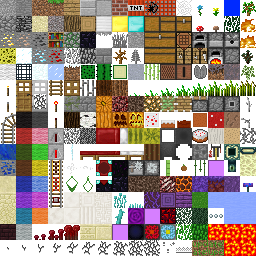
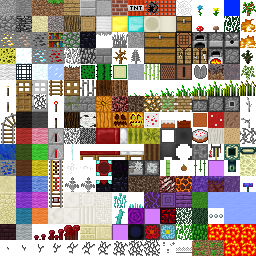
nether/rendering fixes

Changed region(s): [[0.5625, 0.0625, 0.6875, 0.125], [0.25, 0.6875, 0.375, 0.75]]

diff --git a/src/world/level/levelgen/nether_gen.cpp b/src/world/level/levelgen/nether_gen.cpp
@@ -461,6 +461,161 @@ static bool isNetherrackFace(World* w, int x, int y, int z) {
     return worldBlock(w, x, y, z) == BLOCK_NETHERRACK;
 }
 
+// --- Wastes structure: netherrack spire -----------------------------
+//
+// A thin rock column jutting up from the floor, tapering slightly near
+// the top and optionally capped with magma or glowstone. This is purely
+// ambient decoration for the otherwise-empty Nether Wastes biome -- no
+// footprint validation or chunk-rejection the way the fortress/dungeon
+// generators need, since a spire that fails its headroom check simply
+// isn't placed and the biome falls back to its existing flat terrain,
+// which was already the status quo.
+//
+// Height is capped conservatively (5-8 blocks) against NETHER_MIN_GAP
+// (10): even the tallest possible spire leaves at least 2 blocks of
+// clearance below the lowest the ceiling can ever sit relative to a
+// floor column directly below it, so there's no need to re-derive the
+// ceiling height here -- the local headroom scan below is the real
+// authority and the height cap is just a sane upper bound to roll from.
+static void placeNetherrackSpire(World* w, Random& random, int x, int y, int z) {
+    if (worldBlock(w, x, y, z) != BLOCK_NETHERRACK) return;
+    if (worldBlock(w, x, y + 1, z) != BLOCK_AIR) return;
+
+    int wantHeight = 5 + random.nextInt(4);
+    int headroom = 0;
+    while (headroom < wantHeight && worldBlock(w, x, y + 1 + headroom, z) == BLOCK_AIR) headroom++;
+    int height = headroom < wantHeight ? headroom : wantHeight;
+    if (height < 3) return; // too little clearance to read as a spire; skip rather than stub
+
+    for (int h = 1; h <= height; h++) {
+        // Tapers near the top: the last two blocks have a chance to skip,
+        // giving an irregular jagged silhouette instead of a perfect rod.
+        if (h > height - 2 && random.nextInt(3) == 0) continue;
+        blockPut(w, x, y + h, z, BLOCK_NETHERRACK);
+    }
+
+    // Occasional accent cap -- magma reads as a scorched tip, glowstone
+    // as a light source that also helps the spire read from a distance.
+    // Never both; capChance keeps most spires plain rock, matching how
+    // sparse the existing magma-blob decoration already is in this biome.
+    int capRoll = random.nextInt(6);
+    if (capRoll == 0) blockPut(w, x, y + height + 1, z, BLOCK_MAGMA);
+    else if (capRoll == 1) blockPut(w, x, y + height + 1, z, BLOCK_GLOWSTONE);
+}
+
+// --- Wastes structure: small obsidian formation -----------------------
+//
+// A squat, irregular blob of obsidian sitting on the floor -- reads as a
+// natural rock outcrop, distinct from the thin vertical spires above.
+// Obsidian only forms where lava meets a stable surface in vanilla; this
+// is a decorative stand-in for that without simulating the actual fluid
+// interaction, matching how the existing magma blobs in this file are
+// already "purely decorative...no lava-damage/bubble-column behavior".
+static void placeObsidianFormation(World* w, Random& random, int x, int y, int z) {
+    if (worldBlock(w, x, y, z) != BLOCK_NETHERRACK) return;
+    if (worldBlock(w, x, y + 1, z) != BLOCK_AIR) return;
+
+    int radius = 1 + random.nextInt(2);
+    int height = 1 + random.nextInt(2);
+    for (int dx = -radius; dx <= radius; dx++) {
+        for (int dz = -radius; dz <= radius; dz++) {
+            if (dx * dx + dz * dz > radius * radius) continue; // round footprint, not square
+            for (int dy = 0; dy < height; dy++) {
+                int bx = x + dx, by = y + 1 + dy, bz = z + dz;
+                if (worldBlock(w, bx, by, bz) != BLOCK_AIR) continue;
+                // Only builds on solid ground directly below -- an
+                // obsidian blob floating a block above an already-placed
+                // neighbour column would look like debris, not an
+                // outcrop, so each column is checked independently.
+                if (worldBlock(w, bx, by - 1, bz) == BLOCK_AIR) continue;
+                blockPut(w, bx, by, bz, BLOCK_OBSIDIAN);
+            }
+        }
+    }
+}
+
+// --- Soul Sand Valley structure: fossil skeleton -----------------------
+//
+// A buried skeleton -- a spine with rib pairs, echoing vanilla's own
+// fossil structures -- rather than a random scatter of bone blocks. Fixed
+// orientation with an optional mirror across Z (cheap variety without a
+// full rotation matrix, matching how little investment the fortress and
+// dungeon generators put into orientation too). The rib layout is
+// deliberately asymmetric (one pair shortened on one side, another
+// dropped on one side entirely) so the mirror actually produces a
+// different-looking skeleton rather than mapping onto itself -- a fully
+// symmetric rib layout was tried first and rejected because mirroring it
+// is a no-op, confirmed by generating both orientations as coordinate
+// sets and checking they differ. The template is a flat coordinate list
+// rather than ported vanilla structure data, hand-authored to read as a
+// spine + ribcage from directly above -- see the ASCII check this shape
+// was verified against before being written out here:
+//
+//   NORMAL:            MIRRORED:
+//    # #     #          #    #  #
+//    # #     #          # #  #  #
+//    ###########         ###########
+//    # #  #  #          # #     #
+//    #    #  #          # #     #
+//
+// 11 long (x), 5 wide (z), 3 tall (y) -- comparable footprint to vanilla's
+// real fossils. y within the template is a shallow arc (0->2->0) so the
+// spine reads as gently curved rather than a dead-straight line of blocks.
+struct FossilBlock { signed char dx, dy, dz; };
+static const FossilBlock kFossilTemplate[] = {
+    // Spine (11 vertebrae, shallow arc).
+    {0,0,0}, {1,0,0}, {2,1,0}, {3,1,0}, {4,1,0}, {5,2,0}, {6,2,0},
+    {7,1,0}, {8,1,0}, {9,0,0}, {10,0,0},
+    // Rib pairs, at the same height as the spine vertebra directly below
+    // them. Deliberately asymmetric -- see the comment above.
+    {1,0,1}, {1,0,2}, {1,0,-1}, {1,0,-2},   // symmetric pair
+    {3,1,1},                                 // +Z side shortened to 1 block
+    {3,1,-1}, {3,1,-2},
+    {6,2,1}, {6,2,2},                        // -Z side dropped entirely
+    {9,0,1}, {9,0,2}, {9,0,-1}, {9,0,-2},   // symmetric pair
+};
+static const int kFossilBlockCount = (int)(sizeof(kFossilTemplate) / sizeof(kFossilTemplate[0]));
+
+// True if every template cell either lands on soul sand/soil (the anchor
+// column and every other column the skeleton would occupy) with open air
+// immediately above, or -- since the whole thing is meant to sit half
+// buried -- one block INTO existing soul sand/soil is also acceptable,
+// which the placement loop below relies on to let ribs dip half a block
+// under the surface. Checked as a dry run before anything is placed, same
+// footprint-first discipline as the dungeon/fortress generators use,
+// rather than discovering a bad site block-by-block mid-placement.
+static bool fossilSiteClear(World* w, int x, int y, int z, bool mirrorZ) {
+    for (int i = 0; i < kFossilBlockCount; i++) {
+        int dz = mirrorZ ? -kFossilTemplate[i].dz : kFossilTemplate[i].dz;
+        int bx = x + kFossilTemplate[i].dx;
+        int by = y + kFossilTemplate[i].dy;
+        int bz = z + dz;
+        unsigned char at    = worldBlock(w, bx, by, bz);
+        unsigned char below = worldBlock(w, bx, by - 1, bz);
+        bool atOk    = (at == BLOCK_AIR || at == BLOCK_SOUL_SAND || at == BLOCK_SOUL_SOIL);
+        bool belowOk = (below == BLOCK_SOUL_SAND || below == BLOCK_SOUL_SOIL || below == BLOCK_AIR);
+        if (!atOk || !belowOk) return false;
+    }
+    return true;
+}
+
+static void placeFossilSkeleton(World* w, Random& random, int x, int y, int z) {
+    unsigned char floorId = worldBlock(w, x, y, z);
+    if (floorId != BLOCK_SOUL_SAND && floorId != BLOCK_SOUL_SOIL) return;
+    if (worldBlock(w, x, y + 1, z) != BLOCK_AIR) return;
+
+    bool mirrorZ = random.nextInt(2) == 0;
+    if (!fossilSiteClear(w, x, y, z, mirrorZ)) return;
+
+    for (int i = 0; i < kFossilBlockCount; i++) {
+        int dz = mirrorZ ? -kFossilTemplate[i].dz : kFossilTemplate[i].dz;
+        int bx = x + kFossilTemplate[i].dx;
+        int by = y + kFossilTemplate[i].dy;
+        int bz = z + dz;
+        blockPut(w, bx, by, bz, BLOCK_BONE_BLOCK);
+    }
+}
+
 static void decorateWastes(World* w, Random& random, int xo, int zo) {
     // Magma blocks scattered on floor hills near the lava sea, same
     // rough placement vanilla uses (small blobs just above the lava
@@ -487,6 +642,31 @@ static void decorateWastes(World* w, Random& random, int xo, int zo) {
                 blockPut(w, bx, y, bz, BLOCK_MAGMA);
         }
     }
+
+    // Spires and obsidian formations: the actual "give Wastes some
+    // structure" pass. One roll each per chunk, independent of the magma
+    // above -- both search for the topmost exposed floor column the same
+    // way decorateSoulSandValley already does for its floor material,
+    // since spires/formations need to sit on *any* floor surface, not
+    // specifically the narrow lava-shoreline band magma targets.
+    if (random.nextInt(3) == 0) {
+        int x = xo + random.nextInt(16), z = zo + random.nextInt(16);
+        for (int y = NETHER_CEIL_BASE_Y; y >= NETHER_SCAN_MIN_Y; y--) {
+            if (worldBlock(w, x, y, z) != BLOCK_NETHERRACK) continue;
+            if (worldBlock(w, x, y + 1, z) != BLOCK_AIR) continue;
+            placeNetherrackSpire(w, random, x, y, z);
+            break;
+        }
+    }
+    if (random.nextInt(4) == 0) {
+        int x = xo + random.nextInt(16), z = zo + random.nextInt(16);
+        for (int y = NETHER_CEIL_BASE_Y; y >= NETHER_SCAN_MIN_Y; y--) {
+            if (worldBlock(w, x, y, z) != BLOCK_NETHERRACK) continue;
+            if (worldBlock(w, x, y + 1, z) != BLOCK_AIR) continue;
+            placeObsidianFormation(w, random, x, y, z);
+            break;
+        }
+    }
 }
 
 static void decorateSoulSandValley(World* w, Random& random, int xo, int zo) {
@@ -505,6 +685,28 @@ static void decorateSoulSandValley(World* w, Random& random, int xo, int zo) {
                 blockPut(w, gx, y, gz, floorBlock);
                 break; // only the topmost exposed layer at this column
             }
+        }
+    }
+
+    // Fossil skeleton: placed after the floor conversion above so the
+    // soul sand/soil surface it checks for already exists. One roll per
+    // chunk at low odds -- unlike the old scatter-blob version, this is
+    // an 11x5 footprint that needs genuinely clear, flat soul sand under
+    // it, so most rolls will fail fossilSiteClear's check anyway; the low
+    // roll rate just avoids spending the check on every single chunk.
+    // Anchor x is kept within [xo, xo+5] rather than the full [xo,xo+16)
+    // a single-block feature would use, since the template extends 10
+    // blocks further in +X from its anchor and reaching past this
+    // chunk's own 16-wide footprint into a neighbour that may not be
+    // generated yet would corrupt worldBlock reads there.
+    if (random.nextInt(4) == 0) {
+        int x = xo + random.nextInt(6), z = zo + random.nextInt(16);
+        for (int y = NETHER_CEIL_BASE_Y; y >= NETHER_SCAN_MIN_Y; y--) {
+            unsigned char id = worldBlock(w, x, y, z);
+            if (id != BLOCK_SOUL_SAND && id != BLOCK_SOUL_SOIL) continue;
+            if (worldBlock(w, x, y + 1, z) != BLOCK_AIR) continue;
+            placeFossilSkeleton(w, random, x, y, z);
+            break;
         }
     }
 }

diff --git a/src/world/level/world.h b/src/world/level/world.h
@@ -322,6 +322,31 @@ static inline bool worldSlotBusy(const LevelChunk* c) { return c->generating || 
 
 static inline bool worldNeighbourSettled(const World* w, int cx, int cz) {
 
+    // A neighbour that will never be requested by normal overworld
+    // streaming must not permanently block meshing the chunk beside it.
+    // Reserved Nether/End chunks are exactly that case: they only ever
+    // generate on demand (see chunk_cache.cpp's worldChunkIsReserved
+    // branch, which calls chunkGenerateNether only when something
+    // actually asks for that coordinate -- a player stepping through a
+    // portal, a debug teleport), never as part of the overworld's own
+    // pre-gen sweep or lazy streaming radius. Without this check, the
+    // last overworld chunk/row along the reserved strip's edge waits
+    // forever on a +X (or +Z, for the End strip's own edge) neighbour
+    // that nothing in ordinary play will ever cause to become ready,
+    // and the chunk simply never appears in the ambient streaming scan
+    // -- worldRebuildAroundNow's direct, non-gated rebuild path (used
+    // for player block edits) is the only thing that can still force a
+    // mesh there, which is why interacting with a block "fixes" it.
+    // Treating a reserved-but-unready neighbour as settled is safe for
+    // meshing specifically because worldBlock already returns
+    // BLOCK_INVISIBLE_BEDROCK for any coordinate in an unready chunk
+    // (see worldBlock in this same file), and that block is opaque
+    // (rawOpaque in tile.cpp has no exclusion for it) even though it is
+    // non-solid for physics -- so meshing against an unready reserved
+    // neighbour still hides the boundary face correctly, the same as a
+    // real wall would, rather than opening a hole into the void.
+    if (worldChunkIsReserved(w, cx, cz) && !worldChunkReady(w, cx, cz)) return true;
+
     return !worldChunkInBounds(w, cx, cz) || worldChunkReady(w, cx, cz);
 }
 static inline bool worldChunkMeshable(const World* w, int cx, int cz) {

diff --git a/src/client/gui/hud.cpp b/src/client/gui/hud.cpp
@@ -612,6 +612,7 @@ const char* getBlockName(short id, unsigned char data) {
         }
         case BLOCK_LEAVES_DARK_OAK: return "Dark Oak Leaves";
         case BLOCK_MYCELIUM: return "Mycelium";
+        case BLOCK_BONE_BLOCK: return "Bone Block";
         case BLOCK_HUGE_MUSHROOM_CAP:
             return (data & HUGE_MUSHROOM_RED_BIT) ? "Red Mushroom Block" : "Brown Mushroom Block";
         case BLOCK_HUGE_MUSHROOM_STEM: return "Mushroom Stem";
@@ -798,6 +799,7 @@ const char* getBlockDescription(short id, unsigned char data) {
         case BLOCK_LEAVES: case BLOCK_LEAVES_DARK_OAK: return "When broken sometimes drops a sapling which can then be replanted to grow into a tree.";
         case BLOCK_HUGE_MUSHROOM_CAP: case BLOCK_HUGE_MUSHROOM_STEM: return "Part of a huge mushroom. Grows naturally in mushroom and dark forest biomes.";
         case BLOCK_MYCELIUM: return "The ground of mushroom biomes. Drops dirt when mined, and cannot be tilled into farmland.";
+        case BLOCK_BONE_BLOCK: return "A dense block of fused bone, found in fossil formations in the Soul Sand Valley.";
         case BLOCK_FLOWER: case BLOCK_ROSE: return "Can be crafted into a dye.";
         case BLOCK_MUSHROOM_BROWN: case BLOCK_MUSHROOM_RED: return "Can be crafted with a bowl to make stew.";
         case BLOCK_SAPLING: return "Can be planted and it will eventually grow into a tree.";
@@ -1113,8 +1115,8 @@ void gameHintsDraw(MenuState& s) {
 
     extern bool g_photoPending;
     if (g_photoPending) return;
-    extern bool g_paused, g_deadScreen, g_optionsOpen;
-    if (g_paused || g_deadScreen || g_signEditing) return;
+    extern bool g_paused, g_deadScreen, g_optionsOpen, g_achievementsOpen;
+    if (g_paused || g_deadScreen || g_signEditing || g_achievementsOpen) return;
 
     if (g_optionsOpen) { menuHintsDraw(s); return; }
 

diff --git a/src/world/level/tile/tile.cpp b/src/world/level/tile/tile.cpp
@@ -325,6 +325,17 @@ void Tile::getTexture(unsigned char data, int f, int* col, int* row, unsigned in
             }
             break;
         }
+        case BLOCK_BONE_BLOCK: {
+            // Simple top/bottom-vs-side split, no axis rotation -- this
+            // block is placed as a static fossil-pile decoration (see
+            // fossilFeature in nether_gen.cpp), never rotated by the
+            // player the way a log can be, so there's no need for
+            // BLOCK_LOG's per-axis cap logic.
+            bool capFace = (f == F_TOP || f == F_DOWN);
+            if (capFace) { *col = 9;  *row = 1; }
+            else         { *col = 10; *row = 1; }
+            break;
+        }
         case BLOCK_LEAVES:
             switch (data & LEAF_TYPE_MASK) {
                 case LEAF_SPRUCE: *col = 4; *row = 8; *tint = 0xFF2BAE3Du; break;
@@ -1225,7 +1236,7 @@ static int rawSoundType(unsigned char id) {
 static float rawDestroySpeed(int id) {
     switch (id) {
         case BLOCK_STONE: case BLOCK_STONE_BRICKS: case BLOCK_BOOKSHELF:
-        case BLOCK_STAIRS_STONE_BRICK:
+        case BLOCK_STAIRS_STONE_BRICK: case BLOCK_BONE_BLOCK:
             return 1.5f;
         case BLOCK_DIRT: case BLOCK_SAND:
             return 0.5f;

diff --git a/src/main.cpp b/src/main.cpp
@@ -283,9 +283,9 @@ int main(int argc, char* argv[]) {
         AppScreen screenBefore = s.screen;
 
         extern bool g_invOpen, g_chestOpen, g_furnaceOpen, g_craftOpen, g_armorOpen;
-        extern bool g_paused, g_optionsOpen;
+        extern bool g_paused, g_optionsOpen, g_achievementsOpen;
         bool inGameMenu = g_invOpen || g_chestOpen || g_furnaceOpen || g_craftOpen ||
-                          g_armorOpen || g_paused || g_optionsOpen;
+                          g_armorOpen || g_paused || g_optionsOpen || g_achievementsOpen;
 
         unsigned int pMenu = pressed | repeat;
         if (Screen* cur = menuScreen(s.screen)) {
@@ -306,7 +306,7 @@ int main(int argc, char* argv[]) {
         musicUpdate(s.screen != SCREEN_GAME,
                     s.screen == SCREEN_GAME && g_worldBuilt);
 
-        if (pressed && (screenBefore != SCREEN_GAME || g_optionsOpen) &&
+        if (pressed && (screenBefore != SCREEN_GAME || g_optionsOpen || g_achievementsOpen) &&
             (!navOnly || menuSelectionSig(s) != sigBefore))
             soundPlay("random.click", 1.0f, 1.0f);
 

diff --git a/src/world/inventory/inventory.cpp b/src/world/inventory/inventory.cpp
@@ -4,7 +4,7 @@
 static const short kPalette[] = {
 
     BLOCK_COBBLESTONE, BLOCK_STONE_BRICKS, BLOCK_STONE_BRICKS, BLOCK_STONE_BRICKS, BLOCK_MOSSY_COBBLE, BLOCK_PLANKS, BLOCK_BRICKS,
-    BLOCK_STONE, BLOCK_DIRT, BLOCK_GRASS, BLOCK_MYCELIUM, BLOCK_CLAY,
+    BLOCK_STONE, BLOCK_DIRT, BLOCK_GRASS, BLOCK_MYCELIUM, BLOCK_CLAY, BLOCK_BONE_BLOCK,
     BLOCK_SANDSTONE, BLOCK_SANDSTONE, BLOCK_SANDSTONE,
     BLOCK_SAND, BLOCK_GRAVEL,
     BLOCK_LOG, BLOCK_LOG, BLOCK_LOG,
@@ -58,7 +58,7 @@ static const short kPalette[] = {
 static const unsigned char kPaletteData[] = {
 
     0, SB_NORMAL, SB_MOSSY, SB_CRACKED, 0, 0, 0,
-    0, 0, 0, 0, 0,
+    0, 0, 0, 0, 0, 0,
     SS_DEFAULT, SS_CHISELED, SS_SMOOTH,
     0, 0,
     LOG_OAK, LOG_SPRUCE, LOG_BIRCH,

diff --git a/src/world/level/chunk/chunk.h b/src/world/level/chunk/chunk.h
@@ -136,6 +136,12 @@ enum { BLOCK_AIR = 0,
        // MobSpawnerTileEntity; generated dungeons are the primary source.
        BLOCK_MOB_SPAWNER = 177,
 
+       // Plain solid decorative block, currently used for Soul Sand
+       // Valley's fossil-pile structures (see netherOreFeature's sibling
+       // fossilFeature in nether_gen.cpp). No special behavior -- it is
+       // mined and placed like stone, just a different texture/material.
+       BLOCK_BONE_BLOCK = 178,
+
        BLOCK_STONECUTTER = 245, BLOCK_GLOWING_OBSIDIAN = 246, BLOCK_NETHER_REACTOR = 247,
 
        BLOCK_UPDATE1 = 248, BLOCK_UPDATE2 = 249 };

diff --git a/src/client/player/player.cpp b/src/client/player/player.cpp
@@ -212,6 +212,13 @@ void gameUpdate(MenuState& s, unsigned int pressed, const SceCtrlData& pad) {
         return;
     }
 
+    if (g_achievementsOpen) {
+        achievementsScreen().handleInput(s, pressed, pad.Buttons);
+        float now = nowSeconds();
+        g_timerLast = now; g_timerPassed = 0.0f; g_timerAlpha = 0.0f;
+        return;
+    }
+
     if (g_worldBuilt && g_level.player && g_level.player->isSleeping()) {
         inBedScreen().handleInput(s, pressed, pad.Buttons);
         runTicks(s, 0, 128, 128);

diff --git a/src/world/item/digger_item.h b/src/world/item/digger_item.h
@@ -56,6 +56,7 @@ public:
     PickaxeItem(short id, const Tier& tier, int icon) : DiggerItem(id, 2, tier, icon) {
         addTile(BLOCK_STONE); addTile(BLOCK_COBBLESTONE);
         addTile(BLOCK_STONE_BRICKS); addTile(BLOCK_MOSSY_COBBLE);
+        addTile(BLOCK_BONE_BLOCK);
 
         addTile(BLOCK_DOUBLE_SLAB); addTile(BLOCK_SLAB);
         addTile(BLOCK_SANDSTONE);
